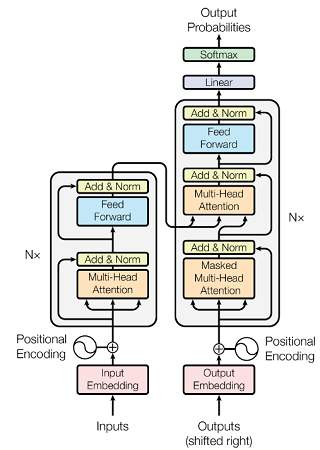
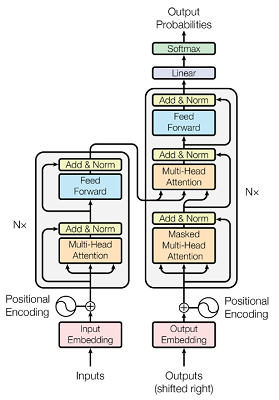
vit blog

Changed region(s): [[0.0, 0.0, 1.0, 1.0]]

diff --git a/_posts/2025-05-08-vit.md b/_posts/2025-05-08-vit.md
@@ -1,0 +1,277 @@
+---
+title: "【论文阅读】ViT-Vision Transformer（简介+代码+面经）"
+author: Xiaofei Su
+tags: 论文笔记
+date: 2025-05-08
+---
+上一篇论文已经对Transformer模型进行了比较详尽的介绍，之后在NLP领域又相当多的有名的工作出现，例如Bert、GPT等，但是在计算机视觉领域中，怎样合理地把图像数据输入Transformer结构中仍然是是一个未确定的问题。
+
+在正式介绍论文内容之前，先来看一下视觉任务中使用Transformer模型的难点，Transformer可以实现高度并行的一个重要原因是**多头自注意力机制将训练从RNN的串行变为并行**，其中QKV的计算均通过矩阵乘法进行，底层GPU会进行相当多的优化，那么训练效率会进一步提升。
+
+而视觉任务中，如果将图像中每个像素看作token，使用注意力机制学习所有像素之间的注意力，会受到显存容量的限制（例如一张128*128的图像，共有16,384个元素，那么两两计算全局注意力的话需要对16,384\*16,384大小的矩阵进行乘法，在硬件上不可行。那么作者就尝试了对**图像分块得到patch**，看作token来计算全局注意力（例如 128\*128图像，patch大小为16\*16，共得到64个tokens，那么计算全局注意力时只需进行64\*64的矩阵乘法）（另外这里的patch=16其实直接从论文标题中得到的）。
+
+论文的亮点除了将Transformer应用到视觉任务之外，还给出了大规模数据的条件下**视觉任务中不需要依赖卷积操作的结论**，在几乎没有添加归纳偏置（先验知识）的情况下，只要有足够多的数据，Transformer就可以超越当前的CNN-based SOTA。
+
+最开始读这篇文章时，有点一头雾水的感觉，尤其是相关工作的介绍中，在看了李沐老师的论文精度系列的视频之后，明白了视觉任务中使用Transformer的难点后才豁然开朗，非常建议读者去看看李沐老师的论文精度系列！
+
+此外在这篇博客中，模型结构介绍之后、代码介绍之前，我会尝试列出一些算法岗面试中常出现的问题，希望可以加深对ViT模型的理解，下面就进入正文。
+
+### 摘要
+
+Transformer结构已经成为NLP领域中的标准模型，但其在视觉任务中的应用还未被完全探索。当时的视觉任务中，还是将注意力机制和CNN一起使用，或者只是将卷积网络中的某些组件进行替换，其主体结构没有改变。而在这篇论文中，作者展示了视觉任务中CNN不是必要的，**直接将图像patch序列输入到原始的transformer**中也可以在图像分类任务上表现得很好。作者在大量数据上预训练并且迁移到多个中等规模和小规模的图像识别任务中（包括ImageNet、CIFAR-10、VTAB等），ViT(Vision Transformer)可以比当年的基于CNN的SOTA更好，并且训练资源更少（注意只是相对...怀疑的读者可以查阅论文中的TPUv3-core-days指标，\^_\^）
+
+### 引言
+
+基于自监督的模型（尤其是Transformer）已经在NLP领域大放异彩，主要的应用是在大型语料库中预训练，然后在特定任务的小数据集上微调。Transformer的计算高效性（并行）和可扩展性（编码器块可以堆叠多次），使得训练大规模网络成为可能。并且随着模型和数据集的增长，当时还没有看到模型能力饱和。
+
+但是在视觉任务中，CNN仍是主流，尽管受到NLP模型的启发，当时的工作也只局限于将CNN结构和自注意力结合起来，或者完全将卷积替换掉。后者理论上更高效（因为自注意力可以直接对图像中任意位置的数据建模，但是CNN中只有在模型高层才可以对远距离位置的数据建模），但是由于这些工作设计的是**特定的注意力模式**（因为最开始我们提到，将每个像素看作token计算注意力，显存无法支持，那么这些工作里使用的是局部自注意力），所以在硬件设备上的训练效率仍然受限，这就使得CNN-based网络仍然是当时的SOTA。
+
+受到NLP领域中Transformer模型的启发，作者尝试尽可能做少的修改、**直接在图像上应用标准Transformer**。于是，作者将图像切分为多个patch并且进行线性embedding操作，再输入到Transformer中。图像中的每个块patch可以类比为NLP中的token。作者在图像分类任务上使用**监督学习**方法训练网络。（在后续实验中，作者也尝试了使用自监督学习方法训练网络，虽然当时的效果不如监督学习方法，但也为之后的MAE提供了思路）
+
+实验中发现，在中等尺寸的数据集（例如ImageNet）上训练ViT时，效果不如同等规模的ResNet，作者解释这可能由于Transformer中缺少CNN中的一些归纳偏置（也就是先验知识，例如平移不变性、局部性）。而当模型在大规模数据集上训练时，实验发现大规模数据训练会优于归纳偏置，在预训练任务和少样本学习任务中都会取得更好的结果。
+
+### 结论
+
+作者探索了直接将Transformer应用到图像识别任务。和之前视觉任务中使用自注意力的方法不同，作者除了在对图像打patch时添加了一些归纳偏置之外，没有再引入额外的归纳偏置。相反，作者将图像理解为patches的序列，并且使用Transformer中的原始编码器处理。这个简单并且可扩展的思路在大数据集上预训练时效果特别好。在很多图像分类任务上，ViT均和当时的SOTA效果相当或者更优，同时预训练相对来说更便宜。
+
+虽然在分类任务上表现较好，但仍有很多需要进一步探索的空间，例如应用于检测、分割等其他视觉任务中。另外也应该自监督预训练策略，作者通过初步实验验证了ViT进行自监督训练的潜力，但和监督方法相比仍有差距。未来对ViT的进一步扩展会带来性能上的提升。
+
+### 相关工作
+
+Transformer已经成为当时NLP中的SOTA，出现了BERT、GPT等一系列的工作，可以在大规模语料库上预训练然后微调，并且使用自监督学习的训练方式获得了相当不错的效果。
+
+对图像进行自注意力的朴素思想是在不同像素之间计算注意力。但是由于显存资源有限，当时工作有的使用局部注意力取代全局注意力，有的对CNN提取的特征图进行自注意力计算，有的是在特定的块中计算注意力。这些特殊的注意力机制在视觉任务上产生了不错的效果，但是计算效率并不高。
+
+而在一篇和ViT结构很相似的论文，选择提取2\*2大小的patch块后再计算自注意力。虽然ViT的模型结构和这篇论文的很相似，但是作者提到其工作的特点在于进一步验证了在大规模数据上使用原始transformer进行预训练可以获得与SOTA CNN类似或者更好的结果。另外由于这篇论文中patch大小只有2\*2，导致模型只适用于低分辨率图像，而作者的ViT可以处理中等分辨率图像。
+
+除此之外还有相当多的将CNN和自注意力结合的工作（之后的实验中作者也对比了这种混合模型的效果）。
+
+### 方法
+
+ViT尽可能和原始的Transformer结构保持相似，不做太多的修改。下面是模型的结构图。
+
+<div align="center">
+  <img src="/assets/images/vit/vit.jpg" alt="ViT" width="60%">
+</div>
+
+标准Transformer接收1D的token序列作为输入，为了处理2D图像，将图像切分为不同的小patch并展平(P为patch的尺寸)，那么其尺寸变化可见下，
+
+$$
+\begin{equation}
+x\in R^{H*W*C}   ->  x\in R^{N*(P^2*C)} 
+\end{equation}
+$$
+
+由于模型中的潜向量尺寸为D，因此将patch展平并输入到线性投影层来映射到D维，得到的结果记作 ``patch embeddings``。
+
+ViT面向的是图像分类任务，那么自然想到在编码器之后添加一个分类头，分类头的输入可以是编码器的全部输出。但是为了和Bert中的处理比较相似，额外添加了一个可学习的 ``class token``，与图像patch共同输入到编码器中，在前向计算的过程中 ``class token``会融合所有patch的信息，代表从图像中提取的所有特征，然后作为分类头的输入。分类头在预训练时是单隐藏层的MLP，在微调阶段是单线性层。
+
+接下来是位置编码，论文中使用标准的1D可学习位置编码（后续实验发现2D可学习的位置编码不会带来明显的效果提升），和原始的 ``patch embedding``求和之后输入到编码器。
+
+编码器完全遵循Transformer的设计，包括多头自注意力(Multiheaded self-attention, MSA)、MLP模块、层归一化、残差连接。MLP中使用GELU激活函数引入非线性计算。前向计算过程的第一步为每个图像patch经过线性映射层，与 ``class token``拼接，再和位置编码进行element-wise加法。
+
+$$
+\begin{equation}
+z_0=[x_{class};x_p^1E;x_p^2E;····;x_p^NE]+E_{pos},\qquad E\in R^{(P^2*C)*D},E_{pos} \in R^{(N+1)*D}
+\end{equation}
+$$
+
+接着数据经过多个多头自注意力和残差连接。
+
+$$
+\begin{equation}
+z'_l=Multihead\;SelfAttention(LN(z_{l-1}))+z_{l-1},\qquad l=1..L
+\end{equation}
+$$
+
+然后经过带有残差连接的线性层。
+
+$$
+\begin{equation}
+z_l=MLP(LN(z'_{l}))+z'_{l-1},\qquad l=1..L
+\end{equation}
+$$
+
+最终经过多个编码层处理后，``class token``经过层归一化得到全局特征 ``y``，作为分类头的输入。
+
+$$
+y=LN(z_L^0)
+$$
+
+和CNN相比，ViT中的归纳偏置（先验知识）更少。CNN中的卷积操作隐含了局部性、平移不变性等先验，而在ViT中只有对图像打patch和MLP中存在一些局部性和平移不变性，其余的关系（包括位置关系等）都需要模型从头学习。
+
+另外作者提到了CNN和Transformer的一种混合结构模型——CNN提取的特征图展平，经过embedding和位置编码，输入到Transformer中。
+
+作者的训练策略为：在大型数据集上预训练ViT，在下游任务上微调模型，微调时会删除预训练预测头，额外添加一个零初始化的前向层，得到下游任务类别的预测概率。有其他工作指出在微调阶段更适合使用高分辨率图像，如果这样做的话patch大小保持不变，那么就导致patch数量更多（序列长度更长）。Transformer的Encoder层输入输出尺寸保持一致，因此模型不必调整，但是预训练得到的位置编码不再适用。因此作者选择在预训练得到的位置编码中，根据其在原始图像中的位置进行**2D插值**（这种做法会向模型中添加一些先验知识）。
+
+### 实验
+
+作者通过丰富的实验验证了ViT在不同预训练数据规模、不同下游任务中的表现，并对比了CNN-based模型、混合模型的性能，最终的结论可以简述为以下几点：
+
+- 使用中等规模数据预训练，ViT性能不如同等规模的CNN-based模型；
+- 在大规模数据上进行预训练，在多个微调任务、少样本学习任务中，ViT可超越CNN-based模型，并且训练效率更高；
+- 对ViT来说，除了编码层的堆叠数量之外，对图像设置的patch大小也会影响模型性能；
+- 对模型中间得到的特征进行可视化发现，底层学习到的是一些纹理、边缘等低级特征；
+- 对位置编码进行可视化发现，图像中相近patch、同行同列patch的注意力更高，这也和直觉一致；
+- 对注意力距离（可理解为感受野）可视化发现，模型底层会同时关注到多种尺度的感受野（而CNN中只能学习到局部感受野的关系），而在模型高层主要是大的感受野，表明模型在学习全局注意力。
+
+另外作者提到“**Transformer的成功不仅是由于模型结构，也是因为自监督预训练的策略**”，因此额外设计了一个自监督学习策略，参考NLP任务中的做法对图像中的部分patch进行mask掩码操作，通过图像重建来进行自监督学习预训练。实验表明和其他自监督学习方法相比，ViT效果更好，但是仍然不如监督学习预训练策略，未来仍值得关注和探索（MAE就做到了！！
+
+以上就是ViT模型的设计思路，Transformer编码器完全延续了原始的设计，重点考虑了为图像打patch、为图像patch添加位置编码、添加 ``class token``、分类头设计的问题，并且通过大量充分的对比实验描述了ViT的性能（建议读者可以看看原论文正文和附录中的实验，真的很全面，不愧是google...），至此NLP任务和CV任务实现了“大一统”，都可以使用相同的模型结构解决问题，直接推动了多模态领域的研究。另外作者对Transformer模型的理解也很前瞻，指出其有效性的原因不仅是并行的模型结构，也和自监督预训练策略有很大的关系，并通过比较简单的自监督学习验证了ViT的潜力，鼓励了未来对视觉检测、分割任务的研究。
+
+### 面试常见问题
+
+ViT将图像分割为固定大小的patch后，如何将这些patch转换为适合Transformer处理的序列？能否详细描述预处理流程中的关键步骤？
+
+
+<span style="color:gray;">对patch进行线性embedding，维度变成模型hidden dims，并且与1D可学习的位置编码直接相加（element-wise add）。
+
+预处理过程中要考虑恰当的patch大小，经过embedding之后，为了和NLP中的架构尽可能相似，会额外添加一个 ``class token``与 ``patch embeddings``进行拼接，最后和1D可学习的位置编码参数直接相加作为编码层的输入。</span>
+
+ViT的位置编码与传统NLP中的位置编码有何不同？如果不使用位置编码，会对模型性能产生什么影响？
+
+<span style="color:gray;">Transformer中使用的位置编码是根据位置信息计算正余弦值，而ViT中选择1D位置编码参数，是可学习的；论文中对不使用位置编码的情况进行了对比实验，会导致模型性能稍有下降（大约下降3个百分点）。</span>
+
+ViT的"分类token"（class token）在模型中的作用是什么？为什么需要将它添加到patch序列中？
+
+<span style="color:gray;">分类token在前向计算过程中会融合图像的全局信息，最终作为图像特征输入到分类头中，完成分类任务。
+
+原论文中提到为了和NLP（BERT模型）中的设置尽可能相似，将其与patches进行拼接，作为编码器的输入，不过实验证明，如果不使用 ``class tokrn``、而是为分类头输入编码器的输出，也可得到相近的性能。</span>
+
+ViT与CNN的核心区别是什么？为什么ViT在大规模数据集上表现更好，但在小数据集上容易过拟合？
+
+<span style="color:gray;">CNN中依赖卷积操作提取特征，其中有局部性、平移不变性等先验知识，而ViT中仅引入了非常少的图像先验知识，完全依靠模型学习图像patch之间的关系。</span>
+
+自注意力机制在图像处理中可能面临哪些计算效率问题？ViT如何通过patch划分缓解这一问题？
+
+<span style="color:gray;">如果将图像中的每个像素看作token输入到模型中，QKV的计算时会面临大矩阵乘法问题，导致计算效率降低，而ViT通过划分patch、将每个patch作为token，减少了token的序列长度，从而缓解了上面的大矩阵乘法问题。</span>
+
+当输入图像分辨率与预训练模型不匹配时，ViT需要如何调整？试解释位置编码插值的实现逻辑
+
+<span style="color:gray;">在原始的预训练得到的位置编码的基础上，根据图像位置的关系进行2D插值。</span>
+
+从ViT的实验结果来看，为什么它在ImageNet-21k等大规模数据集上的表现优于CNN？这种优势是否能迁移到小规模数据集？
+
+<span style="color:gray;">ViT通过全局自注意力机制，可以在不引入先验知识的情况下，学习到图像的通用特征，因此在大规模数据上性能优于CNN；同时如果使用少样本微调，ViT的性能也好过CNN。</span>
+
+在工业场景（如医学影像分析或自动驾驶）中部署ViT时，可能面临哪些实际挑战？列举三种优化策略并说明原理
+
+<span style="color:gray;">开放性问题，留给读者思考\^\_\^</span>
+
+### 代码实现
+
+这里我们自顶向下看一下模型的实现代码，我选择了一个[开源的pytorch实现](https://github.com/lucidrains/vit-pytorch)进行说明。
+
+```python
+class ViT(nn.Module):
+    def __init__(self, *, image_size, patch_size, num_classes, dim, depth, heads, mlp_dim, pool = 'cls', channels = 3, dim_head = 64, dropout = 0., emb_dropout = 0.):
+        super().__init__()
+        image_height, image_width = pair(image_size)
+        patch_height, patch_width = pair(patch_size)
+	# 确保图像可以被正确划分为多个patch
+        assert image_height % patch_height == 0 and image_width % patch_width == 0, 'Image dimensions must be divisible by the patch size.'
+	# 计算patch的数量
+        num_patches = (image_height // patch_height) * (image_width // patch_width)
+	# 对patch进行展平后得到的数据维度（注意考虑了通道）
+        patch_dim = channels * patch_height * patch_width
+        assert pool in {'cls', 'mean'}, 'pool type must be either cls (cls token) or mean (mean pooling)'
+	# 初始化patch embedding层，首先打patch，接着进行层归一化和线性层（处理为model hidden dims），再经过一个层归一化
+        self.to_patch_embedding = nn.Sequential(
+            Rearrange('b c (h p1) (w p2) -> b (h w) (p1 p2 c)', p1 = patch_height, p2 = patch_width),
+            nn.LayerNorm(patch_dim),
+            nn.Linear(patch_dim, dim),
+            nn.LayerNorm(dim),
+        )
+	# 位置编码是可学习的参数，注意num_patches+1代表在patches中拼接了class token
+        self.pos_embedding = nn.Parameter(torch.randn(1, num_patches + 1, dim))
+	# class token，可学习参数，维度和model hidden dims相同
+        self.cls_token = nn.Parameter(torch.randn(1, 1, dim))
+        self.dropout = nn.Dropout(emb_dropout)
+	# transformer中的编码器层
+        self.transformer = Transformer(dim, depth, heads, dim_head, mlp_dim, dropout)
+
+        self.pool = pool
+        self.to_latent = nn.Identity()			# 残差层
+
+        self.mlp_head = nn.Linear(dim, num_classes)	# 分类头
+
+    def forward(self, img):
+        x = self.to_patch_embedding(img)		# 首先对图像进行patch
+        b, n, _ = x.shape				# 得到batch_size, nums_patches
+
+        cls_tokens = repeat(self.cls_token, '1 1 d -> b 1 d', b = b)	# batch_size个位置编码
+        x = torch.cat((cls_tokens, x), dim=1)				# class token和图像patch进行拼接
+        x += self.pos_embedding[:, :(n + 1)]				# 与位置编码进行element-wise add
+        x = self.dropout(x)
+
+        x = self.transformer(x)						# 经过编码器层
+
+        x = x.mean(dim = 1) if self.pool == 'mean' else x[:, 0]
+
+        x = self.to_latent(x)
+        return self.mlp_head(x)				# 得到最终的分类结果
+```
+
+接着来看一下这个实现版本中的tranfromer结构。
+
+```python
+class Transformer(nn.Module):
+    def __init__(self, dim, depth, heads, dim_head, mlp_dim, dropout = 0.):
+        super().__init__()
+        self.norm = nn.LayerNorm(dim)
+        self.layers = nn.ModuleList([])
+        for _ in range(depth):
+            self.layers.append(nn.ModuleList([
+                Attention(dim, heads = heads, dim_head = dim_head, dropout = dropout),		# 多头自注意力
+                FeedForward(dim, mlp_dim, dropout = dropout)					# 前向计算层
+            ]))
+
+    def forward(self, x):
+        for attn, ff in self.layers:
+            x = attn(x) + x	# 多头注意力+残差
+            x = ff(x) + x	# 前向计算+残差
+
+        return self.norm(x)	# 最后进行层归一化
+```
+
+其中的多头注意力见下：
+
+```python
+class Attention(nn.Module):
+    def __init__(self, dim, heads = 8, dim_head = 64, dropout = 0.):
+        super().__init__()
+        inner_dim = dim_head *  heads
+        project_out = not (heads == 1 and dim_head == dim)
+
+        self.heads = heads
+        self.scale = dim_head ** -0.5
+
+        self.norm = nn.LayerNorm(dim)
+
+        self.attend = nn.Softmax(dim = -1)
+        self.dropout = nn.Dropout(dropout)
+
+        self.to_qkv = nn.Linear(dim, inner_dim * 3, bias = False)
+
+        self.to_out = nn.Sequential(
+            nn.Linear(inner_dim, dim),
+            nn.Dropout(dropout)
+        ) if project_out else nn.Identity()
+
+    def forward(self, x):
+        x = self.norm(x)
+
+        qkv = self.to_qkv(x).chunk(3, dim = -1)
+        q, k, v = map(lambda t: rearrange(t, 'b n (h d) -> b h n d', h = self.heads), qkv)	# 将[batch_size, lens, (heads * dim/heads)] -> [batch_size, heads, lens, heads*dim]
+
+        dots = torch.matmul(q, k.transpose(-1, -2)) * self.scale	# 计算注意力分数
+
+        attn = self.attend(dots)
+        attn = self.dropout(attn)
+
+        out = torch.matmul(attn, v)					# 得到注意力的结果
+        out = rearrange(out, 'b h n d -> b n (h d)')				# 恢复尺寸
+        return self.to_out(out)
+```
+
+另外MLP层的实现比较简单，因此这里不再做赘述。

diff --git a/_posts/2025-05-07-transformer.md b/_posts/2025-05-07-transformer.md
@@ -81,7 +81,7 @@ $$
 作者在此基础上又添加了一个可进一步提高并行性、多视角捕捉依赖关系的模块：多头自注意力，作者设计了多个头来学习不同的特定关系（例如长距离和短距离），见下图。
 
 <div align="center">
-  <img src="/assets/images/Transformer/multi-head.png" alt="Non-local Block" width="80%">
+  <img src="/assets/images/Transformer/multi-head.png" alt="Non-local Block" width="60%">
 </div>
 
 自注意力的计算流程可写作：
@@ -152,7 +152,7 @@ $$
 #### 模型框架
 
 <div align="center">
-  <img src="/assets/images/Transformer/transfromer.png" alt="Non-local Block" width="80%">
+  <img src="/assets/images/Transformer/transfromer.png" alt="Non-local Block" width="60%">
 </div>
 
 首先对模型输入进行embedding映射到数值空间，接着添加位置编码信息，模型的输入inputs是指原句子，outputs指目标句子（这里要注意的是训练阶段和推理阶段的outputs不同，训练时输入的是对应位置标签，而推理阶段输入的是前一时刻解码器的输出，两个阶段均会生成下一位置的预测概率）。
